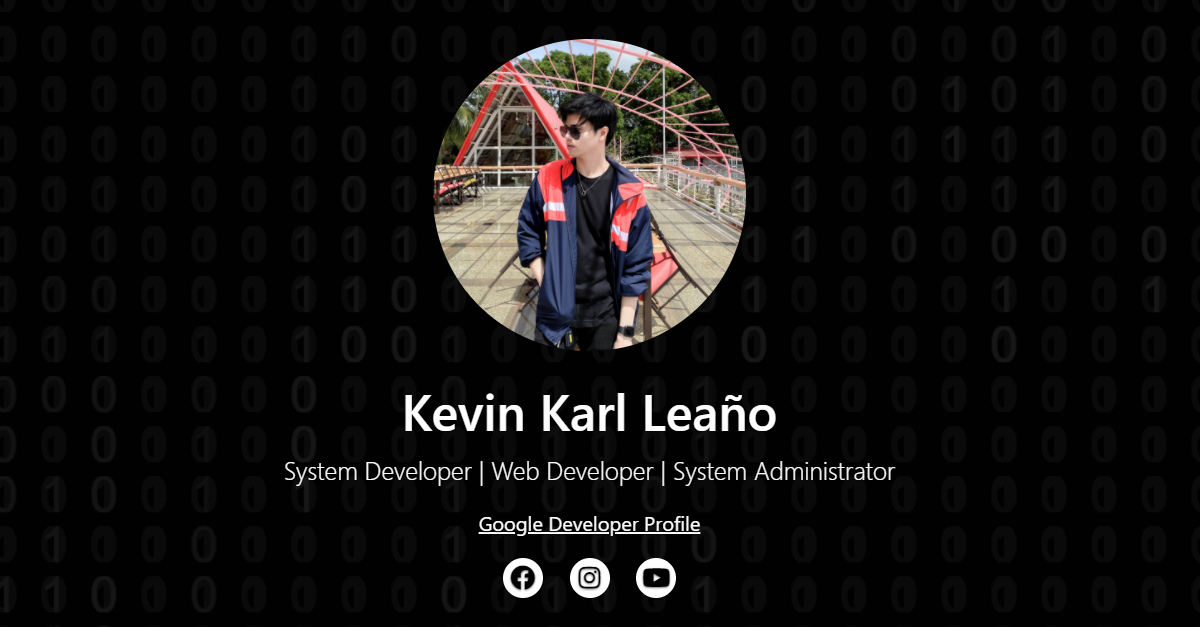
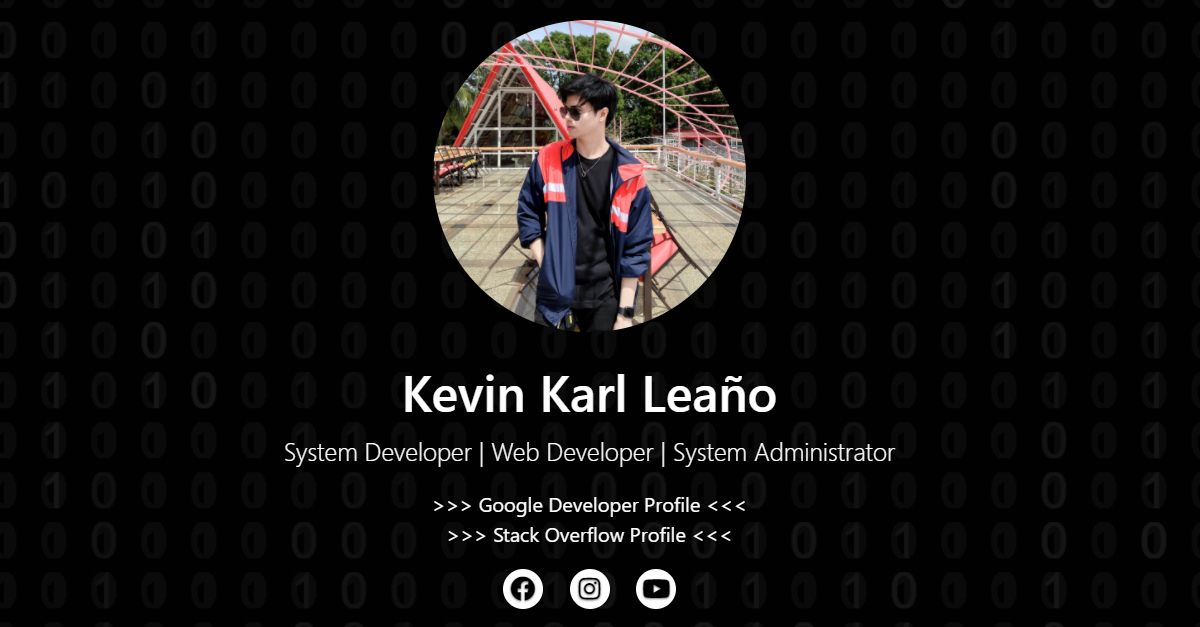
Updated

Changed region(s): [[0.3392, 0.0303, 0.6475, 0.5758], [0.2158, 0.6061, 0.74, 0.9697]]

diff --git a/src/css/main.min.css b/src/css/main.min.css
@@ -1,1 +1,1 @@
-#main-body{box-shadow:inset 0 0 5rem rgba(0,0,0,.5);text-shadow:0 .05rem .1rem rgba(0,0,0,.5)}#main-body .container{max-width:42em}#main-body .container a{color:#fff}#main-body .container .nav-masthead .nav-link{background-color:transparent;border-bottom:1px solid transparent;color:#fff;font-weight:700;padding:.25rem 0}#main-body .container .nav-masthead .nav-link:hover{border-bottom-color:rgba(255,255,255,.25)}#main-body .container .nav-masthead .nav-link+.nav-link{margin-left:2.5rem}#main-body .container .nav-masthead .active{border-bottom-color:#fff;color:#fff}#main-body .container .featured-photo{height:250px;width:250px}#main-body .container .social-media-link{background:#fff;border-radius:50%;color:#000;display:inline-block;height:32px;text-align:center;width:32px}#main-body .container .social-media-link+.social-media-link{margin-left:1rem}#main-body canvas{position:absolute;z-index:-1}
+#main-body{box-shadow:inset 0 0 5rem rgba(0,0,0,.5);text-shadow:0 .05rem .1rem rgba(0,0,0,.5)}#main-body .container{max-width:42em}#main-body .container a{color:#fff;text-decoration:none}#main-body .container a:hover{text-decoration:underline}#main-body .container ul{list-style-type:none;margin:0;padding:0}#main-body .container .nav-masthead .nav-link{background-color:transparent;border-bottom:1px solid transparent;color:#fff;font-weight:700;padding:.25rem 0}#main-body .container .nav-masthead .nav-link:hover{border-bottom-color:rgba(255,255,255,.25)}#main-body .container .nav-masthead .nav-link+.nav-link{margin-left:2.5rem}#main-body .container .nav-masthead .active{border-bottom-color:#fff;color:#fff}#main-body .container .featured-photo{height:250px;width:250px}#main-body .container .social-media-link{background:#fff;border-radius:50%;color:#000;display:inline-block;height:32px;text-align:center;width:32px}#main-body .container .social-media-link+.social-media-link{margin-left:1rem}#main-body canvas{position:absolute;z-index:-1}

diff --git a/resources/pages/home.html b/resources/pages/home.html
@@ -2,9 +2,14 @@
 <h1>Kevin Karl Leaño</h1>
 <p class="lead">System Developer | Web Developer | System Administrator</p>
 <p>
-  <a href="https://developers.google.com/profile/u/109360363553733027736" target="_blank">Google Developer Profile</a>
-  |
-  <a href="https://stackoverflow.com/users/2947274/kevin-karl-lea%C3%B1o" target="_blank">Stack Overflow Profile</a>
+  <ul>
+    <li>
+      >>> <a href="https://developers.google.com/profile/u/109360363553733027736" target="_blank">Google Developer Profile</a> <<<
+    </li>
+    <li>
+      >>> <a href="https://stackoverflow.com/users/2947274/kevin-karl-lea%C3%B1o" target="_blank">Stack Overflow Profile</a> <<<
+    </li>
+  </ul>
 </p>
 <p class="lead">
   <a class="social-media-link" href="https://www.facebook.com/kevinkarl22/" target="_blank" title="Facebook"><i class="fab fa-facebook"></i></a>
